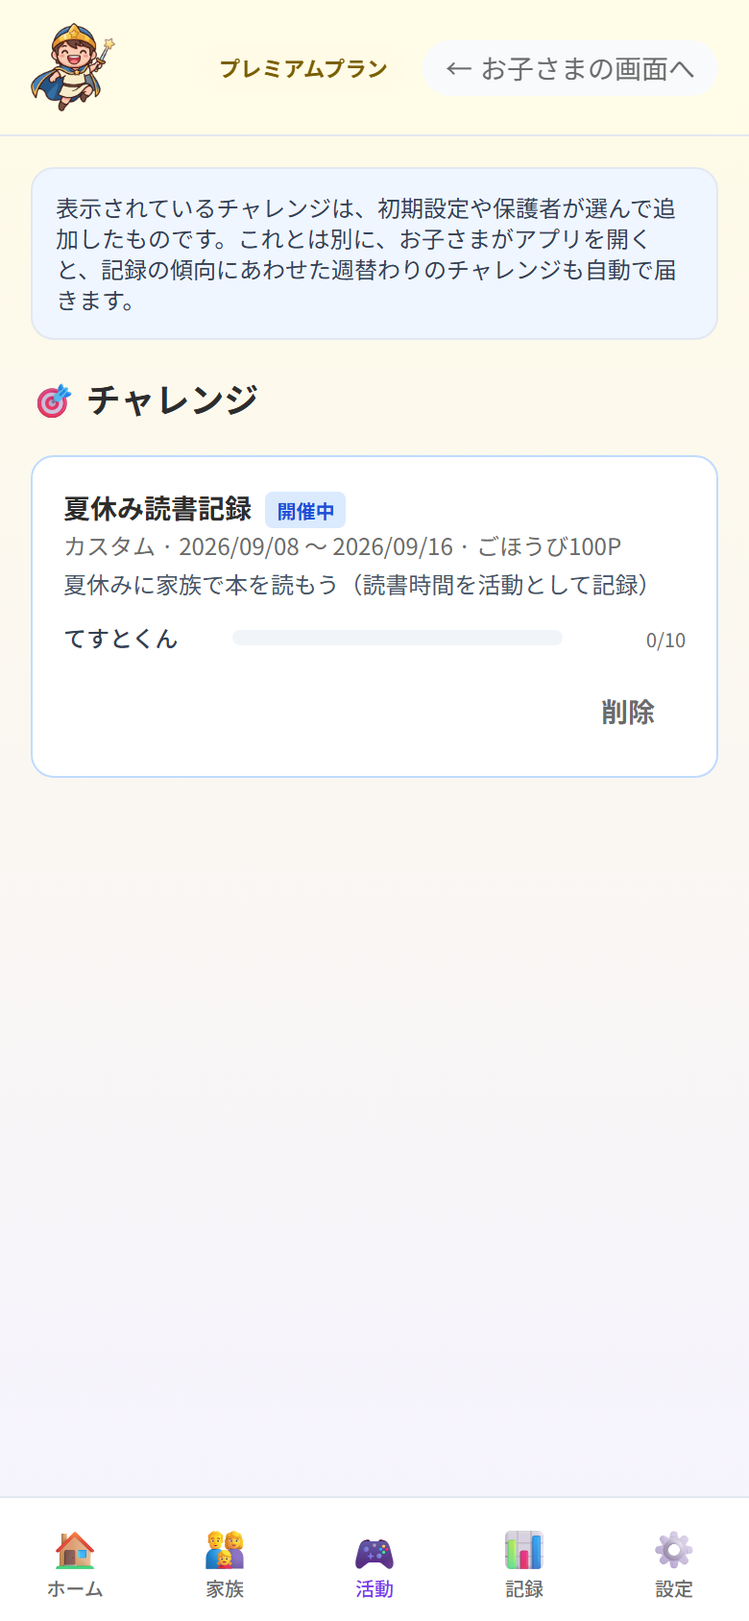
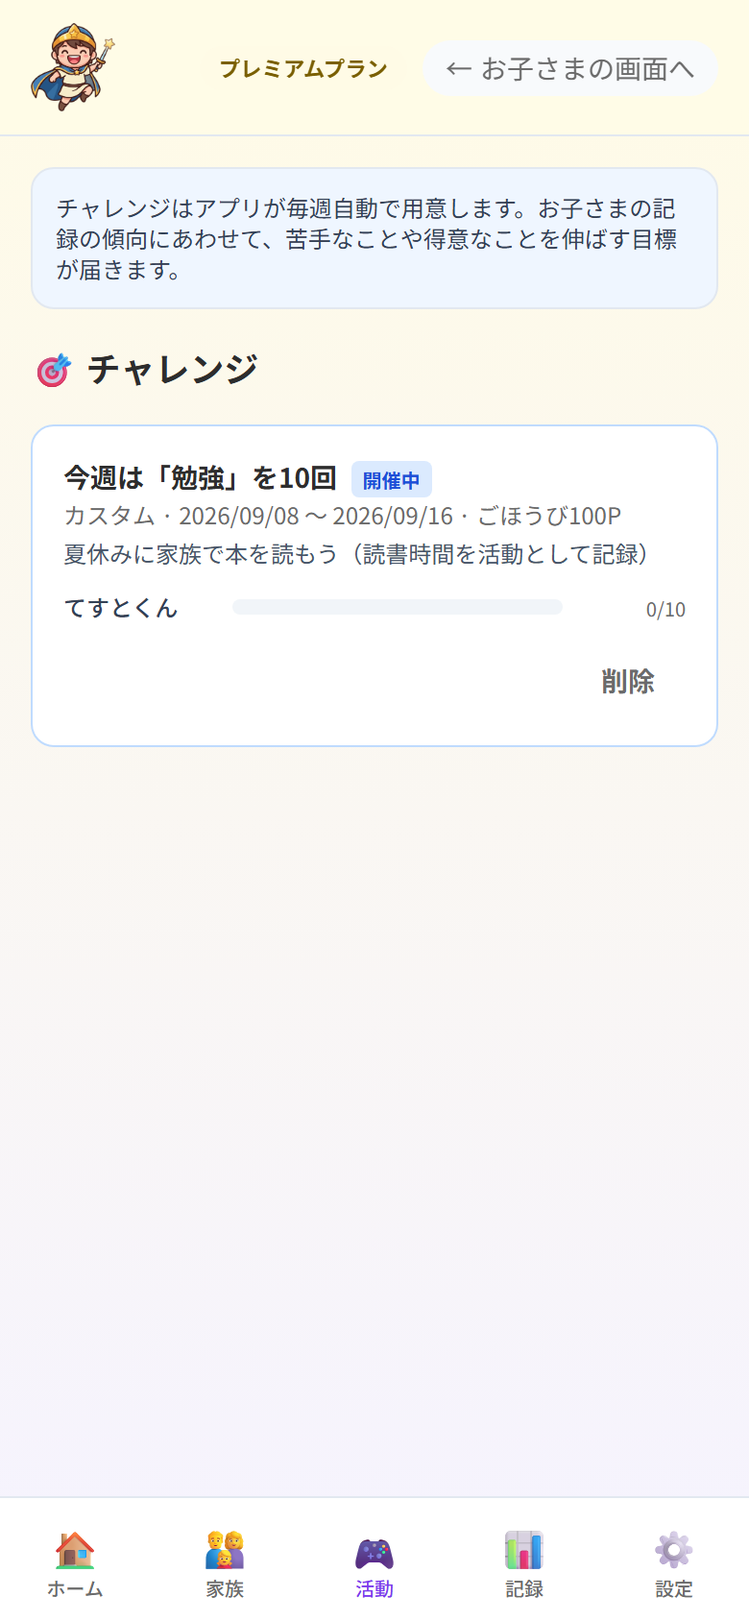
screenshots: PR #4911 (2026-09-11)

diff --git a/pr-4911/admin-challenges-desktop.dom.html b/pr-4911/admin-challenges-desktop.dom.html
@@ -5187,7 +5187,7 @@ h1, h2, h3, h4 {
  .svelte-z1q8ae{}</style>
 	</head>
 	<body data-sveltekit-preload-data="hover">
-		<div style="display: contents"><!--[--><!--[0--><!--[--><!--[-1--><!--]--><!----> <!--[-1--><!--]--><!----> <!--[-1--><!--]--><!----> <!--[0--><!--[--><div data-theme="admin" data-plan="family" class="admin-shell svelte-wncecx"><header class="admin-header sticky top-0 z-30 backdrop-blur border-b border-[var(--color-border-default)] px-4 py-3 svelte-wncecx"><div class="max-w-4xl mx-auto flex items-center justify-between svelte-wncecx"><div class="flex items-center gap-2 svelte-wncecx"><a href="/admin" class="flex items-center svelte-wncecx"><span class="hidden md:inline-flex svelte-wncecx"><span class="logo-wrapper  svelte-1n7r250"><img src="/logo-compact.png" alt="がんばりクエスト" width="140" height="57" class="logo svelte-1n7r250"> <!--[-1--><!--]--></span><!----></span> <span class="inline-flex md:hidden svelte-wncecx"><span class="logo-wrapper  svelte-1n7r250"><img src="/icon-character.png" alt="がんばりクエスト" width="44" height="44" class="logo svelte-1n7r250"> <!--[-1--><!--]--></span><!----></span></a> <!--[-1--><!--]--></div> <div class="flex items-center gap-2 svelte-wncecx"><!--[-1--><!--]--> <!--[1--><a href="/admin/subscription" class="plan-badge plan-badge--family svelte-wncecx">プレミアムプラン</a><!--]--> <!--[-1--><!--]--> <a href="/switch" class="header-switch-link svelte-wncecx" data-tutorial="switch-to-child"><span aria-hidden="true" class="svelte-wncecx">←</span> お子さまの画面へ</a></div></div></header> <nav class="hidden md:block bg-[var(--color-surface-card)] border-b border-[var(--color-border-default)] px-4 py-2 svelte-wncecx" aria-label="管理メニュー" data-tutorial="nav-desktop"><div class="max-w-4xl mx-auto flex gap-1 svelte-wncecx"><a href="/admin" class="nav-item  svelte-wncecx"><span aria-hidden="true" class="svelte-wncecx">🏠</span> ホーム</a> <!--[--><div class="relative svelte-wncecx" role="none"><button type="button" class="nav-item  svelte-wncecx" aria-expanded="false" aria-haspopup="true"><span aria-hidden="true" class="svelte-wncecx">👨👩👧</span> 家族 <span class="text-[10px] ml-0.5 opacity-50 svelte-wncecx" aria-hidden="true">▾</span></button> <!--[-1--><!--]--></div><div class="relative svelte-wncecx" role="none"><button type="button" class="nav-item nav-item--active svelte-wncecx" aria-expanded="false" aria-haspopup="true"><span aria-hidden="true" class="svelte-wncecx">🎮</span> 活動 <span class="text-[10px] ml-0.5 opacity-50 svelte-wncecx" aria-hidden="true">▾</span></button> <!--[-1--><!--]--></div><div class="relative svelte-wncecx" role="none"><button type="button" class="nav-item  svelte-wncecx" aria-expanded="false" aria-haspopup="true"><span aria-hidden="true" class="svelte-wncecx">📊</span> 記録 <span class="text-[10px] ml-0.5 opacity-50 svelte-wncecx" aria-hidden="true">▾</span></button> <!--[-1--><!--]--></div><div class="relative svelte-wncecx" role="none"><button type="button" class="nav-item  svelte-wncecx" aria-expanded="false" aria-haspopup="true"><span aria-hidden="true" class="svelte-wncecx">⚙</span> 設定 <span class="text-[10px] ml-0.5 opacity-50 svelte-wncecx" aria-hidden="true">▾</span></button> <!--[-1--><!--]--></div><!--]--></div></nav> <main class="max-w-4xl mx-auto p-4 pb-24 md:pb-4 svelte-wncecx"><!--[-1--><!--[-1--><!--]--><!----> <!--[-1--><!--]--> <!--[-1--><!--]--> <!--[-1--><!--]--> <!--[-1--><!--]--> <!--[-1--><!--[--><div class="space-y-4"><!--[-1--><!--]--> <div class="rounded-xl border border-[var(--color-border-default)] bg-[var(--color-surface-info)] p-3 text-xs text-[var(--color-text-primary)]"><p>表示されているチャレンジは、初期設定や保護者が選んで追加したものです。これとは別に、お子さまがアプリを開くと、記録の傾向にあわせた週替わりのチャレンジも自動で届きます。</p></div> <!--[-1--><!--]--> <div class="flex items-center justify-between"><h2 class="text-lg font-bold">🎯 チャレンジ</h2></div> <!--[-1--><!--]--> <!--[-1--><!--]--> <!--[-1--><div class="space-y-3"><!--[--><div class="rounded-xl border bg-white p-4 space-y-3 border-[var(--color-feedback-info-border)]" data-testid="admin-challenges-group" data-tutorial="challenges-card" data-group-key="setup-preset:preset-natsuyasumi-reading::夏休み読書記録::2026-09-08::2026-09-16"><div class="flex items-start justify-between gap-2"><div class="flex-1"><h3 class="font-bold text-sm">夏休み読書記録 <!--[-1--><!--]--> <!--[0--><span class="ml-1 rounded bg-[var(--color-feedback-info-bg-strong)] px-1.5 py-0.5 text-[10px] font-bold text-[var(--color-feedback-info-text)]">開催中</span><!--]--></h3> <p class="text-xs text-[var(--color-text-muted)] mt-0.5">カスタム
+		<div style="display: contents"><!--[--><!--[0--><!--[--><!--[-1--><!--]--><!----> <!--[-1--><!--]--><!----> <!--[-1--><!--]--><!----> <!--[0--><!--[--><div data-theme="admin" data-plan="family" class="admin-shell svelte-wncecx"><header class="admin-header sticky top-0 z-30 backdrop-blur border-b border-[var(--color-border-default)] px-4 py-3 svelte-wncecx"><div class="max-w-4xl mx-auto flex items-center justify-between svelte-wncecx"><div class="flex items-center gap-2 svelte-wncecx"><a href="/admin" class="flex items-center svelte-wncecx"><span class="hidden md:inline-flex svelte-wncecx"><span class="logo-wrapper  svelte-1n7r250"><img src="/logo-compact.png" alt="がんばりクエスト" width="140" height="57" class="logo svelte-1n7r250"> <!--[-1--><!--]--></span><!----></span> <span class="inline-flex md:hidden svelte-wncecx"><span class="logo-wrapper  svelte-1n7r250"><img src="/icon-character.png" alt="がんばりクエスト" width="44" height="44" class="logo svelte-1n7r250"> <!--[-1--><!--]--></span><!----></span></a> <!--[-1--><!--]--></div> <div class="flex items-center gap-2 svelte-wncecx"><!--[-1--><!--]--> <!--[1--><a href="/admin/subscription" class="plan-badge plan-badge--family svelte-wncecx">プレミアムプラン</a><!--]--> <!--[-1--><!--]--> <a href="/switch" class="header-switch-link svelte-wncecx" data-tutorial="switch-to-child"><span aria-hidden="true" class="svelte-wncecx">←</span> お子さまの画面へ</a></div></div></header> <nav class="hidden md:block bg-[var(--color-surface-card)] border-b border-[var(--color-border-default)] px-4 py-2 svelte-wncecx" aria-label="管理メニュー" data-tutorial="nav-desktop"><div class="max-w-4xl mx-auto flex gap-1 svelte-wncecx"><a href="/admin" class="nav-item  svelte-wncecx"><span aria-hidden="true" class="svelte-wncecx">🏠</span> ホーム</a> <!--[--><div class="relative svelte-wncecx" role="none"><button type="button" class="nav-item  svelte-wncecx" aria-expanded="false" aria-haspopup="true"><span aria-hidden="true" class="svelte-wncecx">👨👩👧</span> 家族 <span class="text-[10px] ml-0.5 opacity-50 svelte-wncecx" aria-hidden="true">▾</span></button> <!--[-1--><!--]--></div><div class="relative svelte-wncecx" role="none"><button type="button" class="nav-item nav-item--active svelte-wncecx" aria-expanded="false" aria-haspopup="true"><span aria-hidden="true" class="svelte-wncecx">🎮</span> 活動 <span class="text-[10px] ml-0.5 opacity-50 svelte-wncecx" aria-hidden="true">▾</span></button> <!--[-1--><!--]--></div><div class="relative svelte-wncecx" role="none"><button type="button" class="nav-item  svelte-wncecx" aria-expanded="false" aria-haspopup="true"><span aria-hidden="true" class="svelte-wncecx">📊</span> 記録 <span class="text-[10px] ml-0.5 opacity-50 svelte-wncecx" aria-hidden="true">▾</span></button> <!--[-1--><!--]--></div><div class="relative svelte-wncecx" role="none"><button type="button" class="nav-item  svelte-wncecx" aria-expanded="false" aria-haspopup="true"><span aria-hidden="true" class="svelte-wncecx">⚙</span> 設定 <span class="text-[10px] ml-0.5 opacity-50 svelte-wncecx" aria-hidden="true">▾</span></button> <!--[-1--><!--]--></div><!--]--></div></nav> <main class="max-w-4xl mx-auto p-4 pb-24 md:pb-4 svelte-wncecx"><!--[-1--><!--[-1--><!--]--><!----> <!--[-1--><!--]--> <!--[-1--><!--]--> <!--[-1--><!--]--> <!--[-1--><!--]--> <!--[-1--><!--[--><div class="space-y-4"><!--[-1--><!--]--> <div class="rounded-xl border border-[var(--color-border-default)] bg-[var(--color-surface-info)] p-3 text-xs text-[var(--color-text-primary)]"><p>チャレンジはアプリが毎週自動で用意します。お子さまの記録の傾向にあわせて、苦手なことや得意なことを伸ばす目標が届きます。</p></div> <!--[-1--><!--]--> <div class="flex items-center justify-between"><h2 class="text-lg font-bold">🎯 チャレンジ</h2></div> <!--[-1--><!--]--> <!--[-1--><!--]--> <!--[-1--><div class="space-y-3"><!--[--><div class="rounded-xl border bg-white p-4 space-y-3 border-[var(--color-feedback-info-border)]" data-testid="admin-challenges-group" data-tutorial="challenges-card" data-group-key="setup-preset:preset-natsuyasumi-reading::夏休み読書記録::2026-09-08::2026-09-16"><div class="flex items-start justify-between gap-2"><div class="flex-1"><h3 class="font-bold text-sm">今週は「勉強」を10回 <!--[-1--><!--]--> <!--[0--><span class="ml-1 rounded bg-[var(--color-feedback-info-bg-strong)] px-1.5 py-0.5 text-[10px] font-bold text-[var(--color-feedback-info-text)]">開催中</span><!--]--></h3> <p class="text-xs text-[var(--color-text-muted)] mt-0.5">カスタム
 								· 2026/09/08 〜 2026/09/16
 								· ごほうび100P</p> <!--[0--><p class="text-xs text-[var(--color-text-secondary)] mt-1">夏休みに家族で本を読もう（読書時間を活動として記録）</p><!--]--></div></div> <!--[1--><div class="flex items-center gap-2" data-testid="admin-challenges-single-progress"><span class="text-xs font-medium text-[var(--color-text-primary)] w-20 truncate">てすとくん</span> <div class="flex-1 h-2 bg-[var(--color-surface-secondary)] rounded-full overflow-hidden"><div class="h-full rounded-full bg-[var(--color-feedback-info-border)]" style="width: 0%;"></div></div> <span class="text-[10px] text-[var(--color-text-muted)] w-14 text-right">0/10 <!--[-1--><!--]--></span></div><!--]--> <div class="flex justify-end gap-1 flex-wrap" data-tutorial="challenges-delete"><!--[--><form method="POST" action="?/delete"><input type="hidden" name="id" value="1" style=""> <!--[-1--><button class="tap-target inline-flex items-center justify-center gap-2 font-bold transition-all disabled:opacity-60 disabled:cursor-not-allowed bg-transparent text-[var(--color-text-muted)] hover:bg-black/5 active:bg-black/10 px-4 py-2 text-sm rounded-[var(--radius-sm)] " aria-busy="false" type="submit" data-testid="admin-challenge-delete-1"><!--[-1--><!--]--><!---->削除<!----></button><!--]--><!----></form><!--]--></div></div><!--]--></div><!--]--></div> <!--[--><!--$s1--><!--[-1--><!--]--><!----><!----><!--]--><!----><!--]--><!--]--><!----><!----><!--]--></main> <nav class="md:hidden fixed bottom-0 left-0 right-0 z-30 bg-[var(--color-surface-card)] border-t border-[var(--color-border-default)] safe-area-bottom svelte-wncecx" aria-label="メインナビゲーション" data-tutorial="nav-primary"><!--[-1--><!--]--> <div class="flex justify-around items-center h-16 svelte-wncecx"><a href="/admin" class="mobile-nav-item  svelte-wncecx"><span class="text-xl svelte-wncecx" aria-hidden="true">🏠</span> <span class="text-[10px] font-medium leading-none svelte-wncecx">ホーム</span></a> <!--[--><button type="button" class="mobile-nav-item   svelte-wncecx" aria-expanded="false" aria-haspopup="true"><span class="text-xl svelte-wncecx" aria-hidden="true">👨👩👧</span> <span class="text-[10px] font-medium leading-none svelte-wncecx">家族</span></button><button type="button" class="mobile-nav-item mobile-nav-item--active  svelte-wncecx" aria-expanded="false" aria-haspopup="true"><span class="text-xl svelte-wncecx" aria-hidden="true">🎮</span> <span class="text-[10px] font-medium leading-none svelte-wncecx">活動</span></button><button type="button" class="mobile-nav-item   svelte-wncecx" aria-expanded="false" aria-haspopup="true"><span class="text-xl svelte-wncecx" aria-hidden="true">📊</span> <span class="text-[10px] font-medium leading-none svelte-wncecx">記録</span></button><button type="button" class="mobile-nav-item   svelte-wncecx" aria-expanded="false" aria-haspopup="true"><span class="text-xl svelte-wncecx" aria-hidden="true">⚙</span> <span class="text-[10px] font-medium leading-none svelte-wncecx">設定</span></button><!--]--></div></nav> <!--[0--><!--[--><!--$s2--><!--[-1--><!--]--><!----><!----><!--]--><!----> <!--[--><!--$s3--><!--[-1--><!--]--><!----><!----><!--]--><!----><!---->  <!--[-1--><!--]--><!----> <!----><!--]--></div><!----> <!--[--><!--$s4--><!--[-1--><!--]--><!----><!----><!--]--><!----><!----> <!--[--><!--$s5--><!--[-1--><!--]--><!----><!----><!--]--><!----><!----> <!--[-1--><!--]--><!----><!--]--><!--]--><!----><!--]--><!--]--> <!--[-1--><!--]--><!--]-->
 			
@@ -5206,7 +5206,7 @@ h1, h2, h3, h4 {
 					]).then(([kit, app]) => {
 						kit.start(app, element, {
 							node_ids: [0, 4, 24],
-							data: [{type:"data",data:{role:"owner",requestId:"17baca9e-0a50-4f81-888d-e767b32b8d79",isDemo:false},uses:{}},{type:"data",data:{pointSettings:{mode:"point",currency:"JPY",rate:1},authMode:"local",pinGateActive:false,tenantStatus:"active",isPremium:true,planTier:"family",userRole:"owner",trialStatus:{isTrialActive:false,daysRemaining:0,trialUsed:false},trialJustExpired:false,trialStartedNoticeEndDate:null,archivedSummary:{archivedChildCount:0,archivedActivityCount:0,archivedChecklistTemplateCount:0,totalCount:0,hasArchivedResources:false},debugPlanSummary:null,gracePeriodStatus:{isSoftDeleted:false,softDeletedAt:null,gracePeriodDays:0,physicalDeletionDate:null,daysRemaining:0,isExpired:false,planTier:null,metadataIncomplete:false},setupOnboarding:null,runtimeMode:"local-debug",stripeEnabled:false},uses:{search_params:["from","trialStarted"]}},{type:"data",data:{challengeGroups:[{groupKey:"setup-preset:preset-natsuyasumi-reading::夏休み読書記録::2026-09-08::2026-09-16",title:"夏休み読書記録",description:"夏休みに家族で本を読もう（読書時間を活動として記録）",startDate:"2026-09-08",endDate:"2026-09-16",periodType:"custom",sourceTemplateId:"setup-preset:preset-natsuyasumi-reading",instances:[{id:"1",childId:"1",title:"夏休み読書記録",description:"夏休みに家族で本を読もう（読書時間を活動として記録）",challengeType:"cooperative",periodType:"custom",startDate:"2026-09-08",endDate:"2026-09-16",targetConfig:"{\"metric\":\"count\",\"baseTarget\":10,\"categoryId\":2}",rewardConfig:"{\"points\":100,\"message\":\"夏休みに家族で本を読もう（読書時間を活動として記録）\"}",status:"active",isActive:1,sourceTemplateId:"setup-preset:preset-natsuyasumi-reading",currentValue:0,targetValue:10,completed:0,completedAt:null,rewardClaimed:0,rewardClaimedAt:null,celebrationShownAt:null,createdAt:"2026-09-11 12:00:38",updatedAt:"2026-09-11 12:00:38"}],allCompleted:false}],children:[{id:"1",nickname:"てすとくん",age:10,birthDate:null,theme:"blue",uiMode:"elementary",uiModeManuallySet:0,avatarUrl:null,displayConfig:null,userId:null,birthdayBonusMultiplier:1,lastBirthdayBonusYear:null,createdAt:"2026-09-11 12:00:38",updatedAt:"2026-09-11 12:00:38",_sv:3,isArchived:0,archivedReason:null}],familyStreak:{currentStreak:0,hasRecordedToday:false,todayRecorders:[],lastRecordedDate:null,nextMilestone:{days:7,points:50,remaining:7}},selectedChildId:"all",autoWeeklySourceTemplateId:"auto:weekly"},uses:{search_params:["childId"]}}],
+							data: [{type:"data",data:{role:"owner",requestId:"ce72c367-3699-457d-91a6-79ffb9ab8d3a",isDemo:false},uses:{}},{type:"data",data:{pointSettings:{mode:"point",currency:"JPY",rate:1},authMode:"local",pinGateActive:false,tenantStatus:"active",isPremium:true,planTier:"family",userRole:"owner",trialStatus:{isTrialActive:false,daysRemaining:0,trialUsed:false},trialJustExpired:false,trialStartedNoticeEndDate:null,archivedSummary:{archivedChildCount:0,archivedActivityCount:0,archivedChecklistTemplateCount:0,totalCount:0,hasArchivedResources:false},debugPlanSummary:null,gracePeriodStatus:{isSoftDeleted:false,softDeletedAt:null,gracePeriodDays:0,physicalDeletionDate:null,daysRemaining:0,isExpired:false,planTier:null,metadataIncomplete:false},setupOnboarding:null,runtimeMode:"local-debug",stripeEnabled:false},uses:{search_params:["from","trialStarted"]}},{type:"data",data:{challengeGroups:[{groupKey:"setup-preset:preset-natsuyasumi-reading::夏休み読書記録::2026-09-08::2026-09-16",title:"今週は「勉強」を10回",description:"夏休みに家族で本を読もう（読書時間を活動として記録）",startDate:"2026-09-08",endDate:"2026-09-16",periodType:"custom",sourceTemplateId:"setup-preset:preset-natsuyasumi-reading",instances:[{id:"1",childId:"1",title:"夏休み読書記録",description:"夏休みに家族で本を読もう（読書時間を活動として記録）",challengeType:"cooperative",periodType:"custom",startDate:"2026-09-08",endDate:"2026-09-16",targetConfig:"{\"metric\":\"count\",\"baseTarget\":10,\"categoryId\":2}",rewardConfig:"{\"points\":100,\"message\":\"夏休みに家族で本を読もう（読書時間を活動として記録）\"}",status:"active",isActive:1,sourceTemplateId:"setup-preset:preset-natsuyasumi-reading",currentValue:0,targetValue:10,completed:0,completedAt:null,rewardClaimed:0,rewardClaimedAt:null,celebrationShownAt:null,createdAt:"2026-09-11 12:00:38",updatedAt:"2026-09-11 12:00:38"}],allCompleted:false}],children:[{id:"1",nickname:"てすとくん",age:10,birthDate:null,theme:"blue",uiMode:"elementary",uiModeManuallySet:0,avatarUrl:null,displayConfig:null,userId:null,birthdayBonusMultiplier:1,lastBirthdayBonusYear:null,createdAt:"2026-09-11 12:00:38",updatedAt:"2026-09-11 12:00:38",_sv:3,isArchived:0,archivedReason:null}],familyStreak:{currentStreak:0,hasRecordedToday:false,todayRecorders:[],lastRecordedDate:null,nextMilestone:{days:7,points:50,remaining:7}},selectedChildId:"all"},uses:{search_params:["childId"]}}],
 							form: null,
 							error: null
 						});

diff --git a/pr-4911/admin-challenges-mobile.dom.html b/pr-4911/admin-challenges-mobile.dom.html
@@ -5187,7 +5187,7 @@ h1, h2, h3, h4 {
  .svelte-z1q8ae{}</style>
 	</head>
 	<body data-sveltekit-preload-data="hover">
-		<div style="display: contents"><!--[--><!--[0--><!--[--><!--[-1--><!--]--><!----> <!--[-1--><!--]--><!----> <!--[-1--><!--]--><!----> <!--[0--><!--[--><div data-theme="admin" data-plan="family" class="admin-shell svelte-wncecx"><header class="admin-header sticky top-0 z-30 backdrop-blur border-b border-[var(--color-border-default)] px-4 py-3 svelte-wncecx"><div class="max-w-4xl mx-auto flex items-center justify-between svelte-wncecx"><div class="flex items-center gap-2 svelte-wncecx"><a href="/admin" class="flex items-center svelte-wncecx"><span class="hidden md:inline-flex svelte-wncecx"><span class="logo-wrapper  svelte-1n7r250"><img src="/logo-compact.png" alt="がんばりクエスト" width="140" height="57" class="logo svelte-1n7r250"> <!--[-1--><!--]--></span><!----></span> <span class="inline-flex md:hidden svelte-wncecx"><span class="logo-wrapper  svelte-1n7r250"><img src="/icon-character.png" alt="がんばりクエスト" width="44" height="44" class="logo svelte-1n7r250"> <!--[-1--><!--]--></span><!----></span></a> <!--[-1--><!--]--></div> <div class="flex items-center gap-2 svelte-wncecx"><!--[-1--><!--]--> <!--[1--><a href="/admin/subscription" class="plan-badge plan-badge--family svelte-wncecx">プレミアムプラン</a><!--]--> <!--[-1--><!--]--> <a href="/switch" class="header-switch-link svelte-wncecx" data-tutorial="switch-to-child"><span aria-hidden="true" class="svelte-wncecx">←</span> お子さまの画面へ</a></div></div></header> <nav class="hidden md:block bg-[var(--color-surface-card)] border-b border-[var(--color-border-default)] px-4 py-2 svelte-wncecx" aria-label="管理メニュー" data-tutorial="nav-desktop"><div class="max-w-4xl mx-auto flex gap-1 svelte-wncecx"><a href="/admin" class="nav-item  svelte-wncecx"><span aria-hidden="true" class="svelte-wncecx">🏠</span> ホーム</a> <!--[--><div class="relative svelte-wncecx" role="none"><button type="button" class="nav-item  svelte-wncecx" aria-expanded="false" aria-haspopup="true"><span aria-hidden="true" class="svelte-wncecx">👨👩👧</span> 家族 <span class="text-[10px] ml-0.5 opacity-50 svelte-wncecx" aria-hidden="true">▾</span></button> <!--[-1--><!--]--></div><div class="relative svelte-wncecx" role="none"><button type="button" class="nav-item nav-item--active svelte-wncecx" aria-expanded="false" aria-haspopup="true"><span aria-hidden="true" class="svelte-wncecx">🎮</span> 活動 <span class="text-[10px] ml-0.5 opacity-50 svelte-wncecx" aria-hidden="true">▾</span></button> <!--[-1--><!--]--></div><div class="relative svelte-wncecx" role="none"><button type="button" class="nav-item  svelte-wncecx" aria-expanded="false" aria-haspopup="true"><span aria-hidden="true" class="svelte-wncecx">📊</span> 記録 <span class="text-[10px] ml-0.5 opacity-50 svelte-wncecx" aria-hidden="true">▾</span></button> <!--[-1--><!--]--></div><div class="relative svelte-wncecx" role="none"><button type="button" class="nav-item  svelte-wncecx" aria-expanded="false" aria-haspopup="true"><span aria-hidden="true" class="svelte-wncecx">⚙</span> 設定 <span class="text-[10px] ml-0.5 opacity-50 svelte-wncecx" aria-hidden="true">▾</span></button> <!--[-1--><!--]--></div><!--]--></div></nav> <main class="max-w-4xl mx-auto p-4 pb-24 md:pb-4 svelte-wncecx"><!--[-1--><!--[-1--><!--]--><!----> <!--[-1--><!--]--> <!--[-1--><!--]--> <!--[-1--><!--]--> <!--[-1--><!--]--> <!--[-1--><!--[--><div class="space-y-4"><!--[-1--><!--]--> <div class="rounded-xl border border-[var(--color-border-default)] bg-[var(--color-surface-info)] p-3 text-xs text-[var(--color-text-primary)]"><p>表示されているチャレンジは、初期設定や保護者が選んで追加したものです。これとは別に、お子さまがアプリを開くと、記録の傾向にあわせた週替わりのチャレンジも自動で届きます。</p></div> <!--[-1--><!--]--> <div class="flex items-center justify-between"><h2 class="text-lg font-bold">🎯 チャレンジ</h2></div> <!--[-1--><!--]--> <!--[-1--><!--]--> <!--[-1--><div class="space-y-3"><!--[--><div class="rounded-xl border bg-white p-4 space-y-3 border-[var(--color-feedback-info-border)]" data-testid="admin-challenges-group" data-tutorial="challenges-card" data-group-key="setup-preset:preset-natsuyasumi-reading::夏休み読書記録::2026-09-08::2026-09-16"><div class="flex items-start justify-between gap-2"><div class="flex-1"><h3 class="font-bold text-sm">夏休み読書記録 <!--[-1--><!--]--> <!--[0--><span class="ml-1 rounded bg-[var(--color-feedback-info-bg-strong)] px-1.5 py-0.5 text-[10px] font-bold text-[var(--color-feedback-info-text)]">開催中</span><!--]--></h3> <p class="text-xs text-[var(--color-text-muted)] mt-0.5">カスタム
+		<div style="display: contents"><!--[--><!--[0--><!--[--><!--[-1--><!--]--><!----> <!--[-1--><!--]--><!----> <!--[-1--><!--]--><!----> <!--[0--><!--[--><div data-theme="admin" data-plan="family" class="admin-shell svelte-wncecx"><header class="admin-header sticky top-0 z-30 backdrop-blur border-b border-[var(--color-border-default)] px-4 py-3 svelte-wncecx"><div class="max-w-4xl mx-auto flex items-center justify-between svelte-wncecx"><div class="flex items-center gap-2 svelte-wncecx"><a href="/admin" class="flex items-center svelte-wncecx"><span class="hidden md:inline-flex svelte-wncecx"><span class="logo-wrapper  svelte-1n7r250"><img src="/logo-compact.png" alt="がんばりクエスト" width="140" height="57" class="logo svelte-1n7r250"> <!--[-1--><!--]--></span><!----></span> <span class="inline-flex md:hidden svelte-wncecx"><span class="logo-wrapper  svelte-1n7r250"><img src="/icon-character.png" alt="がんばりクエスト" width="44" height="44" class="logo svelte-1n7r250"> <!--[-1--><!--]--></span><!----></span></a> <!--[-1--><!--]--></div> <div class="flex items-center gap-2 svelte-wncecx"><!--[-1--><!--]--> <!--[1--><a href="/admin/subscription" class="plan-badge plan-badge--family svelte-wncecx">プレミアムプラン</a><!--]--> <!--[-1--><!--]--> <a href="/switch" class="header-switch-link svelte-wncecx" data-tutorial="switch-to-child"><span aria-hidden="true" class="svelte-wncecx">←</span> お子さまの画面へ</a></div></div></header> <nav class="hidden md:block bg-[var(--color-surface-card)] border-b border-[var(--color-border-default)] px-4 py-2 svelte-wncecx" aria-label="管理メニュー" data-tutorial="nav-desktop"><div class="max-w-4xl mx-auto flex gap-1 svelte-wncecx"><a href="/admin" class="nav-item  svelte-wncecx"><span aria-hidden="true" class="svelte-wncecx">🏠</span> ホーム</a> <!--[--><div class="relative svelte-wncecx" role="none"><button type="button" class="nav-item  svelte-wncecx" aria-expanded="false" aria-haspopup="true"><span aria-hidden="true" class="svelte-wncecx">👨👩👧</span> 家族 <span class="text-[10px] ml-0.5 opacity-50 svelte-wncecx" aria-hidden="true">▾</span></button> <!--[-1--><!--]--></div><div class="relative svelte-wncecx" role="none"><button type="button" class="nav-item nav-item--active svelte-wncecx" aria-expanded="false" aria-haspopup="true"><span aria-hidden="true" class="svelte-wncecx">🎮</span> 活動 <span class="text-[10px] ml-0.5 opacity-50 svelte-wncecx" aria-hidden="true">▾</span></button> <!--[-1--><!--]--></div><div class="relative svelte-wncecx" role="none"><button type="button" class="nav-item  svelte-wncecx" aria-expanded="false" aria-haspopup="true"><span aria-hidden="true" class="svelte-wncecx">📊</span> 記録 <span class="text-[10px] ml-0.5 opacity-50 svelte-wncecx" aria-hidden="true">▾</span></button> <!--[-1--><!--]--></div><div class="relative svelte-wncecx" role="none"><button type="button" class="nav-item  svelte-wncecx" aria-expanded="false" aria-haspopup="true"><span aria-hidden="true" class="svelte-wncecx">⚙</span> 設定 <span class="text-[10px] ml-0.5 opacity-50 svelte-wncecx" aria-hidden="true">▾</span></button> <!--[-1--><!--]--></div><!--]--></div></nav> <main class="max-w-4xl mx-auto p-4 pb-24 md:pb-4 svelte-wncecx"><!--[-1--><!--[-1--><!--]--><!----> <!--[-1--><!--]--> <!--[-1--><!--]--> <!--[-1--><!--]--> <!--[-1--><!--]--> <!--[-1--><!--[--><div class="space-y-4"><!--[-1--><!--]--> <div class="rounded-xl border border-[var(--color-border-default)] bg-[var(--color-surface-info)] p-3 text-xs text-[var(--color-text-primary)]"><p>チャレンジはアプリが毎週自動で用意します。お子さまの記録の傾向にあわせて、苦手なことや得意なことを伸ばす目標が届きます。</p></div> <!--[-1--><!--]--> <div class="flex items-center justify-between"><h2 class="text-lg font-bold">🎯 チャレンジ</h2></div> <!--[-1--><!--]--> <!--[-1--><!--]--> <!--[-1--><div class="space-y-3"><!--[--><div class="rounded-xl border bg-white p-4 space-y-3 border-[var(--color-feedback-info-border)]" data-testid="admin-challenges-group" data-tutorial="challenges-card" data-group-key="setup-preset:preset-natsuyasumi-reading::夏休み読書記録::2026-09-08::2026-09-16"><div class="flex items-start justify-between gap-2"><div class="flex-1"><h3 class="font-bold text-sm">今週は「勉強」を10回 <!--[-1--><!--]--> <!--[0--><span class="ml-1 rounded bg-[var(--color-feedback-info-bg-strong)] px-1.5 py-0.5 text-[10px] font-bold text-[var(--color-feedback-info-text)]">開催中</span><!--]--></h3> <p class="text-xs text-[var(--color-text-muted)] mt-0.5">カスタム
 								· 2026/09/08 〜 2026/09/16
 								· ごほうび100P</p> <!--[0--><p class="text-xs text-[var(--color-text-secondary)] mt-1">夏休みに家族で本を読もう（読書時間を活動として記録）</p><!--]--></div></div> <!--[1--><div class="flex items-center gap-2" data-testid="admin-challenges-single-progress"><span class="text-xs font-medium text-[var(--color-text-primary)] w-20 truncate">てすとくん</span> <div class="flex-1 h-2 bg-[var(--color-surface-secondary)] rounded-full overflow-hidden"><div class="h-full rounded-full bg-[var(--color-feedback-info-border)]" style="width: 0%;"></div></div> <span class="text-[10px] text-[var(--color-text-muted)] w-14 text-right">0/10 <!--[-1--><!--]--></span></div><!--]--> <div class="flex justify-end gap-1 flex-wrap" data-tutorial="challenges-delete"><!--[--><form method="POST" action="?/delete"><input type="hidden" name="id" value="1" style=""> <!--[-1--><button class="tap-target inline-flex items-center justify-center gap-2 font-bold transition-all disabled:opacity-60 disabled:cursor-not-allowed bg-transparent text-[var(--color-text-muted)] hover:bg-black/5 active:bg-black/10 px-4 py-2 text-sm rounded-[var(--radius-sm)] " aria-busy="false" type="submit" data-testid="admin-challenge-delete-1"><!--[-1--><!--]--><!---->削除<!----></button><!--]--><!----></form><!--]--></div></div><!--]--></div><!--]--></div> <!--[--><!--$s1--><!--[-1--><!--]--><!----><!----><!--]--><!----><!--]--><!--]--><!----><!----><!--]--></main> <nav class="md:hidden fixed bottom-0 left-0 right-0 z-30 bg-[var(--color-surface-card)] border-t border-[var(--color-border-default)] safe-area-bottom svelte-wncecx" aria-label="メインナビゲーション" data-tutorial="nav-primary"><!--[-1--><!--]--> <div class="flex justify-around items-center h-16 svelte-wncecx"><a href="/admin" class="mobile-nav-item  svelte-wncecx"><span class="text-xl svelte-wncecx" aria-hidden="true">🏠</span> <span class="text-[10px] font-medium leading-none svelte-wncecx">ホーム</span></a> <!--[--><button type="button" class="mobile-nav-item   svelte-wncecx" aria-expanded="false" aria-haspopup="true"><span class="text-xl svelte-wncecx" aria-hidden="true">👨👩👧</span> <span class="text-[10px] font-medium leading-none svelte-wncecx">家族</span></button><button type="button" class="mobile-nav-item mobile-nav-item--active  svelte-wncecx" aria-expanded="false" aria-haspopup="true"><span class="text-xl svelte-wncecx" aria-hidden="true">🎮</span> <span class="text-[10px] font-medium leading-none svelte-wncecx">活動</span></button><button type="button" class="mobile-nav-item   svelte-wncecx" aria-expanded="false" aria-haspopup="true"><span class="text-xl svelte-wncecx" aria-hidden="true">📊</span> <span class="text-[10px] font-medium leading-none svelte-wncecx">記録</span></button><button type="button" class="mobile-nav-item   svelte-wncecx" aria-expanded="false" aria-haspopup="true"><span class="text-xl svelte-wncecx" aria-hidden="true">⚙</span> <span class="text-[10px] font-medium leading-none svelte-wncecx">設定</span></button><!--]--></div></nav> <!--[0--><!--[--><!--$s2--><!--[-1--><!--]--><!----><!----><!--]--><!----> <!--[--><!--$s3--><!--[-1--><!--]--><!----><!----><!--]--><!----><!---->  <!--[-1--><!--]--><!----> <!----><!--]--></div><!----> <!--[--><!--$s4--><!--[-1--><!--]--><!----><!----><!--]--><!----><!----> <!--[--><!--$s5--><!--[-1--><!--]--><!----><!----><!--]--><!----><!----> <!--[-1--><!--]--><!----><!--]--><!--]--><!----><!--]--><!--]--> <!--[-1--><!--]--><!--]-->
 			
@@ -5206,7 +5206,7 @@ h1, h2, h3, h4 {
 					]).then(([kit, app]) => {
 						kit.start(app, element, {
 							node_ids: [0, 4, 24],
-							data: [{type:"data",data:{role:"owner",requestId:"80bd7efe-f6cd-4de5-b62b-6d203f770f36",isDemo:false},uses:{}},{type:"data",data:{pointSettings:{mode:"point",currency:"JPY",rate:1},authMode:"local",pinGateActive:false,tenantStatus:"active",isPremium:true,planTier:"family",userRole:"owner",trialStatus:{isTrialActive:false,daysRemaining:0,trialUsed:false},trialJustExpired:false,trialStartedNoticeEndDate:null,archivedSummary:{archivedChildCount:0,archivedActivityCount:0,archivedChecklistTemplateCount:0,totalCount:0,hasArchivedResources:false},debugPlanSummary:null,gracePeriodStatus:{isSoftDeleted:false,softDeletedAt:null,gracePeriodDays:0,physicalDeletionDate:null,daysRemaining:0,isExpired:false,planTier:null,metadataIncomplete:false},setupOnboarding:null,runtimeMode:"local-debug",stripeEnabled:false},uses:{search_params:["from","trialStarted"]}},{type:"data",data:{challengeGroups:[{groupKey:"setup-preset:preset-natsuyasumi-reading::夏休み読書記録::2026-09-08::2026-09-16",title:"夏休み読書記録",description:"夏休みに家族で本を読もう（読書時間を活動として記録）",startDate:"2026-09-08",endDate:"2026-09-16",periodType:"custom",sourceTemplateId:"setup-preset:preset-natsuyasumi-reading",instances:[{id:"1",childId:"1",title:"夏休み読書記録",description:"夏休みに家族で本を読もう（読書時間を活動として記録）",challengeType:"cooperative",periodType:"custom",startDate:"2026-09-08",endDate:"2026-09-16",targetConfig:"{\"metric\":\"count\",\"baseTarget\":10,\"categoryId\":2}",rewardConfig:"{\"points\":100,\"message\":\"夏休みに家族で本を読もう（読書時間を活動として記録）\"}",status:"active",isActive:1,sourceTemplateId:"setup-preset:preset-natsuyasumi-reading",currentValue:0,targetValue:10,completed:0,completedAt:null,rewardClaimed:0,rewardClaimedAt:null,celebrationShownAt:null,createdAt:"2026-09-11 12:00:38",updatedAt:"2026-09-11 12:00:38"}],allCompleted:false}],children:[{id:"1",nickname:"てすとくん",age:10,birthDate:null,theme:"blue",uiMode:"elementary",uiModeManuallySet:0,avatarUrl:null,displayConfig:null,userId:null,birthdayBonusMultiplier:1,lastBirthdayBonusYear:null,createdAt:"2026-09-11 12:00:38",updatedAt:"2026-09-11 12:00:38",_sv:3,isArchived:0,archivedReason:null}],familyStreak:{currentStreak:0,hasRecordedToday:false,todayRecorders:[],lastRecordedDate:null,nextMilestone:{days:7,points:50,remaining:7}},selectedChildId:"all",autoWeeklySourceTemplateId:"auto:weekly"},uses:{search_params:["childId"]}}],
+							data: [{type:"data",data:{role:"owner",requestId:"32a2180c-5364-4de1-ab3d-924505fc26d0",isDemo:false},uses:{}},{type:"data",data:{pointSettings:{mode:"point",currency:"JPY",rate:1},authMode:"local",pinGateActive:false,tenantStatus:"active",isPremium:true,planTier:"family",userRole:"owner",trialStatus:{isTrialActive:false,daysRemaining:0,trialUsed:false},trialJustExpired:false,trialStartedNoticeEndDate:null,archivedSummary:{archivedChildCount:0,archivedActivityCount:0,archivedChecklistTemplateCount:0,totalCount:0,hasArchivedResources:false},debugPlanSummary:null,gracePeriodStatus:{isSoftDeleted:false,softDeletedAt:null,gracePeriodDays:0,physicalDeletionDate:null,daysRemaining:0,isExpired:false,planTier:null,metadataIncomplete:false},setupOnboarding:null,runtimeMode:"local-debug",stripeEnabled:false},uses:{search_params:["from","trialStarted"]}},{type:"data",data:{challengeGroups:[{groupKey:"setup-preset:preset-natsuyasumi-reading::夏休み読書記録::2026-09-08::2026-09-16",title:"今週は「勉強」を10回",description:"夏休みに家族で本を読もう（読書時間を活動として記録）",startDate:"2026-09-08",endDate:"2026-09-16",periodType:"custom",sourceTemplateId:"setup-preset:preset-natsuyasumi-reading",instances:[{id:"1",childId:"1",title:"夏休み読書記録",description:"夏休みに家族で本を読もう（読書時間を活動として記録）",challengeType:"cooperative",periodType:"custom",startDate:"2026-09-08",endDate:"2026-09-16",targetConfig:"{\"metric\":\"count\",\"baseTarget\":10,\"categoryId\":2}",rewardConfig:"{\"points\":100,\"message\":\"夏休みに家族で本を読もう（読書時間を活動として記録）\"}",status:"active",isActive:1,sourceTemplateId:"setup-preset:preset-natsuyasumi-reading",currentValue:0,targetValue:10,completed:0,completedAt:null,rewardClaimed:0,rewardClaimedAt:null,celebrationShownAt:null,createdAt:"2026-09-11 12:00:38",updatedAt:"2026-09-11 12:00:38"}],allCompleted:false}],children:[{id:"1",nickname:"てすとくん",age:10,birthDate:null,theme:"blue",uiMode:"elementary",uiModeManuallySet:0,avatarUrl:null,displayConfig:null,userId:null,birthdayBonusMultiplier:1,lastBirthdayBonusYear:null,createdAt:"2026-09-11 12:00:38",updatedAt:"2026-09-11 12:00:38",_sv:3,isArchived:0,archivedReason:null}],familyStreak:{currentStreak:0,hasRecordedToday:false,todayRecorders:[],lastRecordedDate:null,nextMilestone:{days:7,points:50,remaining:7}},selectedChildId:"all"},uses:{search_params:["childId"]}}],
 							form: null,
 							error: null
 						});
